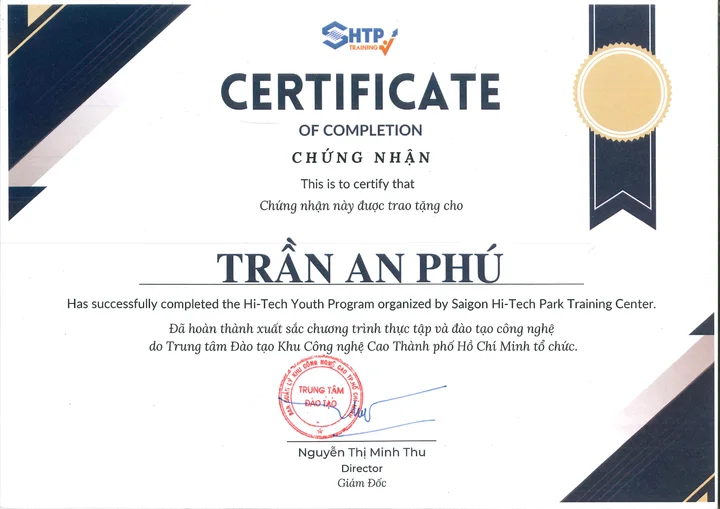
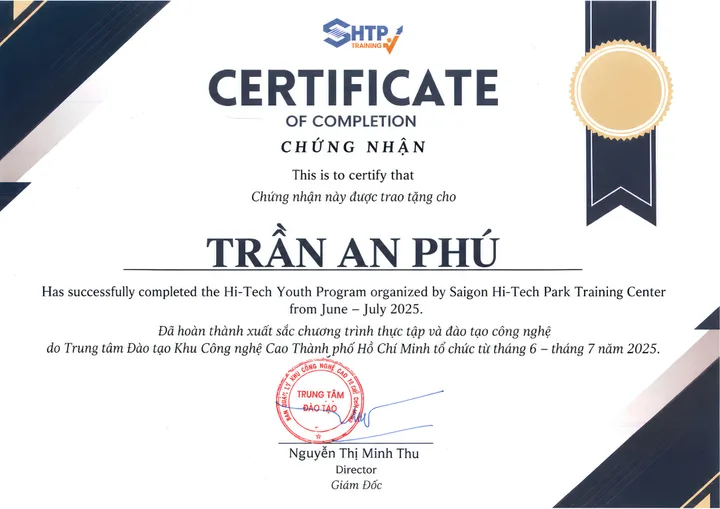
content: add portfolio certificates

diff --git a/app/portfolio-data.ts b/app/portfolio-data.ts
@@ -21,7 +21,7 @@ const baseEntries:Entry[]=[
 {id:'scratch',group:'impact',title:'Creative coding at Hi Vong',category:'Community · Coding',role:'Instructor · Tekite organizing team',period:'Summer 2026',summary:'Teaching Scratch to students facing financial hardship in District 6.',result:'30 students in the teaching program',cover:'scratch',sections:[{heading:'My contribution',text:'As an instructor and member of the Tekite organizing team, I taught Scratch and guided students through practical coding activities at Hi Vong in District 6.'},{heading:'Scope',text:'The teaching program involved 30 students. EduMath Lab’s 30 account recipients are reported separately; the two figures should not be added together as 60 unique students.'}],photos:[photo('scratch','Supporting students at their computers.'),photo('teaching','Explaining Scratch to the class.'),photo('scratch-help','One-to-one guidance during the activity.')],skills:['Scratch','Teaching','Student support']},
 {id:'daklak',group:'impact',title:'Hands-on learning in Dak Lak',category:'Community · Collaboration',role:'Tekite organizing team member',period:'Summer 2026',summary:'Helping deliver a joint science and craft camp at Vo Thi Sau Primary School.',result:'200 primary-school students · Joint program',cover:'daklak',sections:[{heading:'My contribution',text:'I joined Tekite’s organizing team in a camp with three craft and science clubs. Tekite led model race-car assembly and a remote-control obstacle course.'},{heading:'Collective program impact',text:'The joint program served 200 ethnic-minority primary-school students at Vo Thi Sau Primary School. It provided 200 learning packs and a buffet, with a total program value of VND 50 million. These are shared program outcomes.'}],photos:[photo('daklak','Guiding children through model assembly.'),photo('daklak-team','The school program group.'),photo('daklak-outdoor','Outdoor activities during the camp.')]},
 {id:'green',group:'impact',title:'Green Defender',category:'Leadership · Conservation',role:'President',period:'July 2025 – present',summary:'Connecting conservation learning with collaborative tree restoration and field visits.',result:'300 trees in the collaborative restoration program',cover:'planting',sections:[{heading:'My leadership',text:'As president, I helped organize conservation learning, including a Cat Tien visit for 20 members covering forests, wildlife, hydroponics and supervised animal care.'},{heading:'Collective restoration effort',text:'In partnership with the Dong Nai Nature and Culture Reserve Management Board, the program planted 300 trees. The documented program value was VND 30 million; this is a collective figure.'}],photos:[photo('planting','Tree-planting activity.'),photo('planting-work','Preparing soil for planting.'),photo('watering','Watering a newly planted tree.'),photo('conservation','Conservation field visit.')],skills:['Team coordination','Conservation outreach']},
-{id:'folk',group:'impact',title:'The Flow of the Folk',category:'Culture · Community',role:'Performer & organizer',period:'August 2024',summary:'Learning Vietnamese water puppetry and sharing cultural activities with children.',result:'50-person audience · VND 20 million raised for Tam Duc Shelter',cover:'puppetry',sections:[{heading:'My contribution',text:'I studied Vietnamese water puppetry, performed at Phuong Nam Theater and helped organize the activity.'},{heading:'Collective outcome',text:'The performance reached an audience of 50 and raised VND 20 million for Tam Duc Shelter. A subsequent exchange brought cultural activities to children at the shelter.'}],photos:[photo('puppetry','Water-puppetry practice.'),photo('puppetry-show','Hands-on activity in the cultural-exchange collection.')]},
+{id:'folk',group:'impact',title:'The Flow of the Folk',category:'Culture · Community',role:'Performer & organizer',period:'August 2024',summary:'Learning Vietnamese water puppetry and sharing cultural activities with children.',result:'50-person audience · VND 20 million raised for Tam Duc Shelter',cover:'puppetry',sections:[{heading:'My contribution',text:'I studied Vietnamese water puppetry, performed in the “Flow of the Folk – A Water Puppet Showcase” at Phuong Nam Arts Theater and helped organize the activity.'},{heading:'Recognition',text:'I received a Certificate of Appreciation for outstanding performance in the showcase in August 2024.'},{heading:'Collective outcome',text:'The performance reached an audience of 50 and raised VND 20 million for Tam Duc Shelter. A subsequent exchange brought cultural activities to children at the shelter.'}],photos:[photo('folk-certificate','Certificate of Appreciation for the Flow of the Folk water-puppet showcase.'),photo('puppetry','Water-puppetry practice.'),photo('puppetry-show','Hands-on activity in the cultural-exchange collection.')]},
 {id:'seacso',group:'recognition',title:'SEACSO National Gold',category:'Academic recognition',role:'Award recipient',period:'2025',summary:'National Gold recorded in the supplied CV.',sections:[{heading:'Source and status',text:'The supplied CV records a national Gold award at SEACSO in 2025. A certificate has not been provided in the reviewed materials.'}],missing:['SEACSO certificate or official result confirmation.']},
 {id:'sviifaward',group:'recognition',title:'SVIIF Gold',category:'Team recognition',role:'Nutrition project team member',period:'2025 · United States',summary:'Gold at the Silicon Valley International Invention Festival.',cover:'sviif-certificate',sections:[{heading:'Recognized work',text:'The nutrition-platform team received Gold at the 2025 Silicon Valley International Invention Festival. My contribution focused on database management, analysis and support for predictive modeling.'}],photos:[photo('sviif-certificate','SVIIF diploma certificate.'),photo('sviif','Festival recognition and nutrition project display.'),photo('sviif-presentation','Presenting the team project.')],links:[{label:'Open certificate PDF',href:'/documents/SVIIF-Certificate.pdf'},{label:'Open project poster',href:'/documents/Nutrition-Project-Poster.pdf'}]},
 {id:'ideaward',group:'recognition',title:'1 Idea 1 World Gold',category:'Team recognition',role:'Safety-compliance project team member',period:'2026',summary:'Gold for the team’s safety-compliance computer-vision project.',cover:'helmet-certificate',sections:[{heading:'Recognized work',text:'The team received Gold at 1 Idea 1 World in Istanbul in May 2026. I contributed to model development and training for the helmet/no-helmet classifier.'}],photos:[photo('helmet-certificate','Recognition certificate.'),photo('safety-poster','The documented team project.')],links:[{label:'Open project poster',href:'/documents/Safety-Compliance-Poster.pdf'}]},
